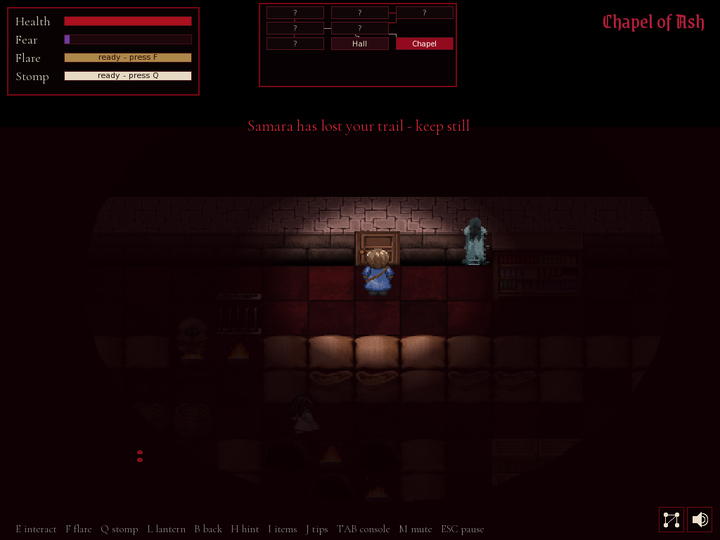
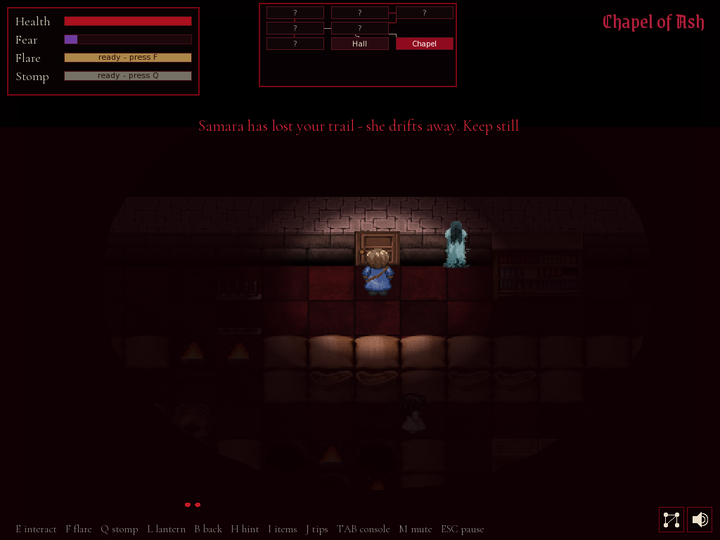
README: add evil Alfred, fix credits/console/scares text, new Alfred and Samara pictures

diff --git a/README.md b/README.md
@@ -15,7 +15,7 @@ A 2D pixel-art horror escape in <b>C++17 + SFML 3</b>. Every mechanic runs on a
 
 On **June 26, 1953**, ten people were murdered in a mansion. The house has slept in crimson ever since.
 You wake on its floor. Find the keys, read the clues and survive the dead (Samara, Carrie, the
-spirits, the Weavers and the Devil), then choose how the nightmare ends.
+spirits, the Weavers, what is left of Alfred, and the Devil), then choose how the nightmare ends.
 
 ### Highlights
 
@@ -59,6 +59,7 @@ spirits, the Weavers and the Devil), then choose how the nightmare ends.
 | <img src="docs/images/locket.png" alt="Samara's locket"><br><sub>Give Samara back her locket and she turns to light.</sub> | <img src="docs/images/door.png" alt="Door swinging open"><br><sub>Doors swing open on their hinge, and the hero walks through.</sub> |
 | <img src="docs/images/hide.png" alt="Hiding in a wardrobe"><br><sub>Inside a wardrobe, nothing can see, hear or touch you.</sub> | <img src="docs/images/stomp.png" alt="Stomping a spider"><br><sub>A spider at your feet. The ring shows the stomp's reach.</sub> |
 | <img src="docs/images/bedroom.png" alt="Collapsed Bedroom"><br><sub>The Collapsed Bedroom: pits, fire, spikes and a lever.</sub> | <img src="docs/images/notecard.png" alt="Survival note"><br><sub>Meet a horror and a survival note slides in at the side.</sub> |
+| <img src="docs/images/alfred.png" alt="Dead Alfred in the Library"><br><sub>After his scream, something stands in the Library with its back to you.</sub> | <img src="docs/images/alfred_scare.png" alt="Alfred's jumpscare"><br><sub>Get too close and it turns, lunges, and the screaming skull fills the screen.</sub> |
 
 ---
 
@@ -115,7 +116,7 @@ graph LR
 |---|---|---|---|
 | **Entrance Hall** | 1 | Where you wake | Alfred and the lantern; the front door |
 | **Grand Corridor** | 3 | The Lantern | A 1953 newspaper clipping in a drawer |
-| **Library** | 4 | Open | The Rusty Key, Alfred's diary |
+| **Library** | 4 | Open | The Rusty Key and a diary; later, what is left of Alfred |
 | **Collapsed Bedroom** | 5 | Rusty Key | A chest with the Brass Key; a lever |
 | **Nursery of Whispers** | 7 | Brass Key | The Chapel Key; a lever; Carrie |
 | **Chapel of Ash** | 7 | Chapel Key | The Hymn Page, the Iron Key, a lever and an old iron-banded door |
@@ -139,6 +140,7 @@ anything you can still take glints faintly in the dark.
 | 🩸 | **Samara** | Drifts through walls, hunting by the sound of your steps | **Stand still**: after about 2.5 silent seconds she loses your trail. A flare banishes her. |
 | 🕯 | **Carrie** | Crawls fast, but only while you aren't looking. She shows faintly in the dark, clearer as she nears | **Face her** and she freezes. A flare drives her away. |
 | 🕷 | **The Weavers** | Spiders that patrol, hear you, see you and chase you, then bite and dart away | Stand still, turn the lantern off or hide in a wardrobe. When one rears up at your feet, **stomp (Q)**. |
+| 💀 | **Alfred** | The butler who gave you the lantern. Once you are deep in the house you hear him scream, and on your way back he stands in the Library with his back to you, swaying and moaning softly | Nothing stops him. Come close and the lantern dies, he turns (eyeless, bleeding), lunges, and the screaming skull fills the screen. Then he is gone for good. |
 | 😈 | **The Devil** | The final boss, waiting in the crypt | See [the final fight](#the-final-fight). |
 | 🔥 | **The house** | Spikes, fire and open graves | Time your steps. **Levers** lower the spikes. |
 
@@ -177,7 +179,7 @@ lifts, and morning light breaks into the crypt.
 | **Trapped** | Choose the petrol in the Antechamber. |
 
 Each ending closes with your run stats (time, rooms, items, spirits banished, deaths, peak fear), a
-rank and rolling credits over quiet TV static.
+rank and rolling credits. (The **Credits** screen on the title menu rolls the full credits over quiet TV static.)
 
 ---
 
@@ -188,21 +190,20 @@ unit-tested by `make test`. Each one does a real job: take it away and a mechani
 
 <img align="right" src="docs/images/console.png" alt="The live data-structure console" width="330">
 
-**The live console (TAB).** The window widens and a panel opens beside the game. Each section
+**The live console (TAB).** A panel opens beside the game (in a window, the window widens to make room; in fullscreen it takes the right-hand part of the screen). Each section
 *draws* its structure from the live game state:
 - keys enter and leave the linked list;
 - rooms stack up as you walk;
 - the danger heap reorders as something closes in;
 - the BST lights up the path a `search()` took.
 
-Click a section to see every element, and click again to fold it. If the screen is too narrow to
-widen the window, the game still keeps most of the width.
+Click a section to see every element, and click again to fold it. The game always keeps most of the width.
 
 | Structure | File | What it does in the game |
 |---|---|---|
 | **Graph** (adjacency list) | [`ds/Graph.h`](src/ds/Graph.h), [`world.cpp`](src/world.cpp) | **The house.** Rooms are nodes and doors are edges. Each edge stores its door, whether it's locked, the item that opens it, and whether it's a hidden passage. |
 | **Stack** | [`ds/Stack.h`](src/ds/Stack.h) | **Where you've been.** Entering a room pushes it; **B** pops back to the previous one. |
-| **Queue** | [`ds/Queue.h`](src/ds/Queue.h) | **The haunting timeline.** Each room schedules its scares (whispers, slams, cracking floors, blood writing) first-in, first-out. It's also the frontier of every BFS. |
+| **Queue** | [`ds/Queue.h`](src/ds/Queue.h) | **The haunting timeline.** Each room schedules its scares (moans, slams, cracking floors, glass, blood writing) first-in, first-out. It's also the frontier of every BFS. |
 | **Priority queue** (max-heap) | [`ds/PriorityQueue.h`](src/ds/PriorityQueue.h) | **Danger right now.** Every frame each threat goes in with a priority, from Samara's attack (100) and the Devil (90) down to calm (0). The top one drives the warning text, the fear rate and the chase music. It's also A\*'s open set. |
 | **Linked list** | [`ds/LinkedList.h`](src/ds/LinkedList.h) | **Inventory.** New items go in at the head, and a key leaves the list when it opens its door. |
 | **Binary search tree** | [`ds/BST.h`](src/ds/BST.h) | **Items and clues**, keyed by item id, with *collected* and *read* flags. Puzzle gates query it: the Ossuary opens only once the newspaper has been **read**. |
@@ -398,6 +399,7 @@ CS_ROOM=3 CS_CONSOLE=1 CS_SPIDER=1 CS_FRAMES=24 CS_SHOT=console.png ./crimson_sl
 **Made by Nishita, Yashieta, Anwita and Aryan.**
 
 - **Pixel art & sprites:** retro horror pixel sprites, the team's hero, ghost and spider art, and custom walk and attack animations.
+- **The screaming skull** (Alfred's jumpscare): painted by Nishita.
 - **Music:** *Title Music* (title screen); *Ambient Horror* by Alex Morgan (calm rooms); a music-box lullaby (the Nursery); *Creep* (dangerous rooms); *Chase* (when something hunts you); the fight music and the Devil's death music (made with `tools/`); *Wrong* (death screen and the Trapped ending); *Apartments* (True ending); *Moonlit Lullaby for the Lost* (Escape and Secret endings).
 - **Sound:** room ambiences and effects from the team's sound library (converted by `tools/make_audio.py`), plus Pixabay effects: *scream* and *scary breath* (freesound_community), *scary loud screaming* (judgecruz1 / remusic), *scary bells* (Dragon Studio), *scary sound effect* (hgoliya08).
 - **Fonts:** Grenze Gotisch, Cormorant Garamond and Nosifer (SIL Open Font License, `assets/fonts/OFL.txt`), and DejaVu Sans.
